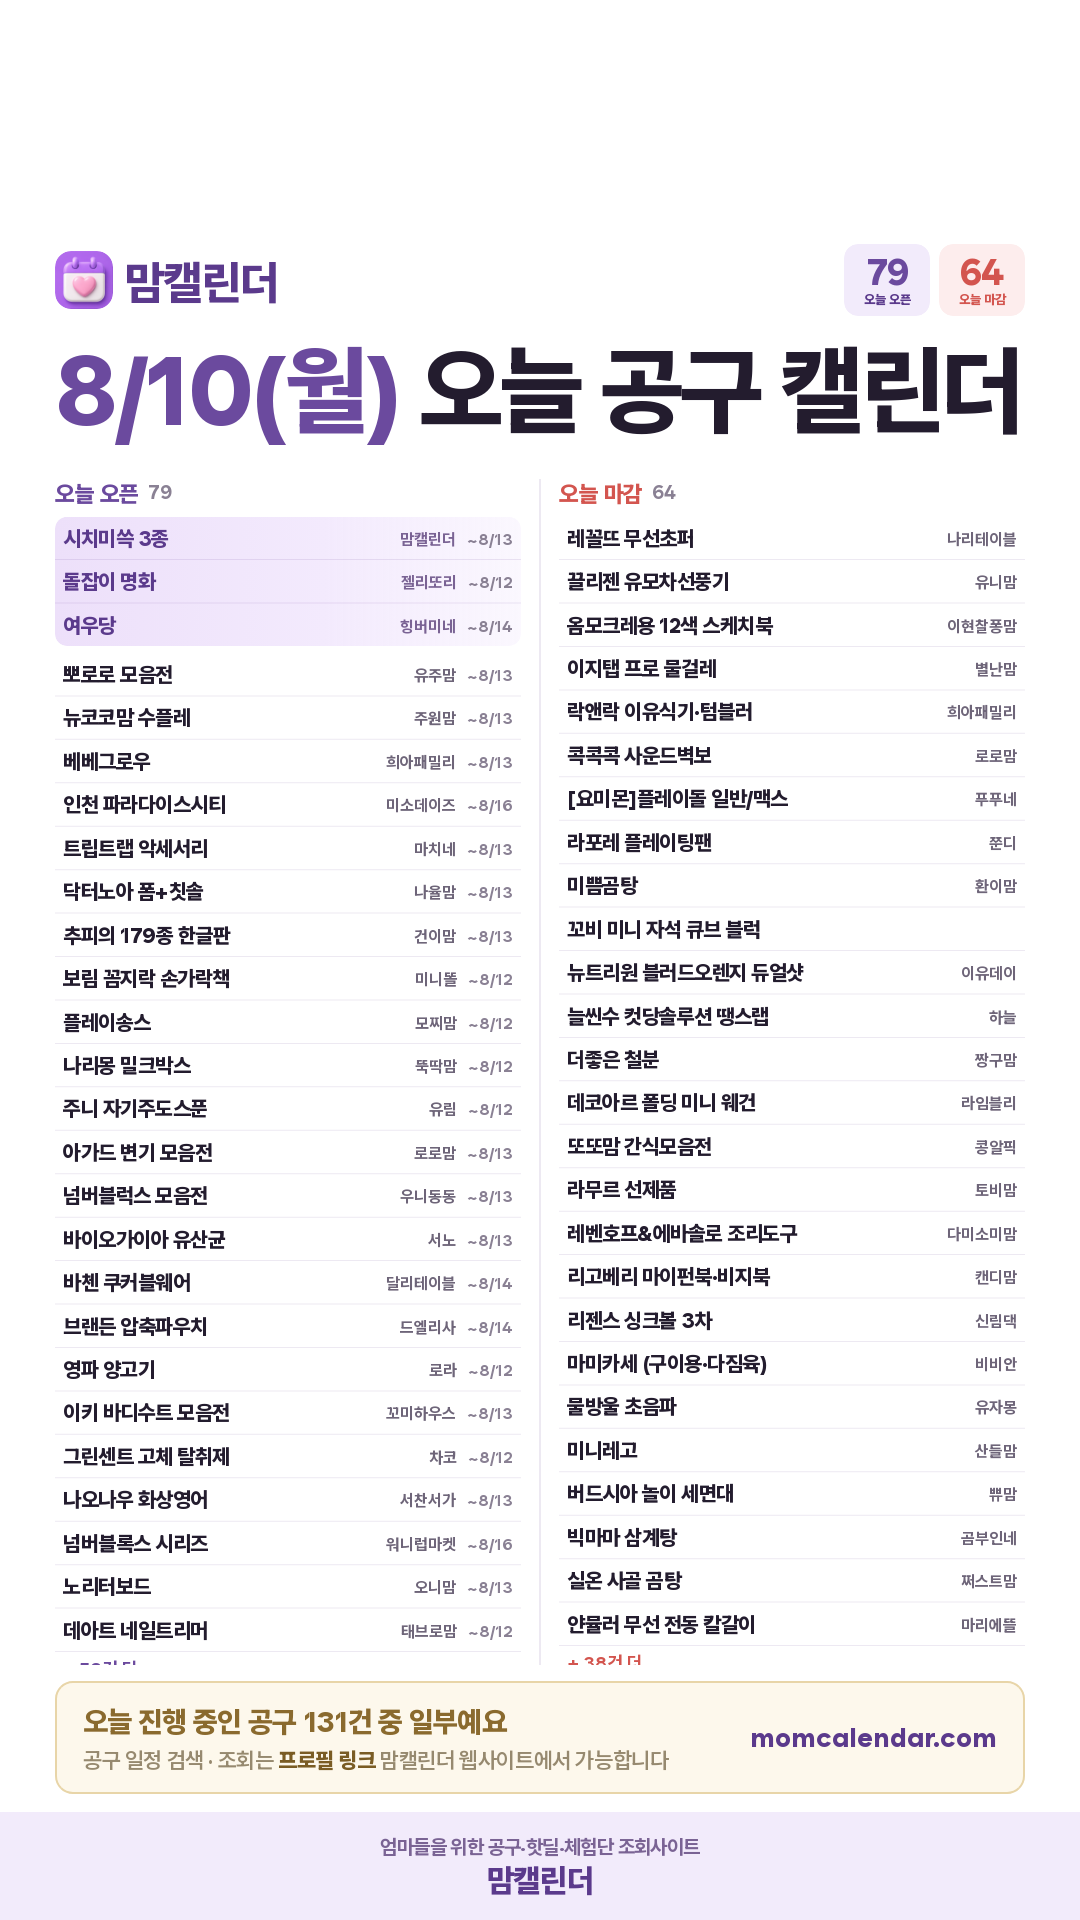
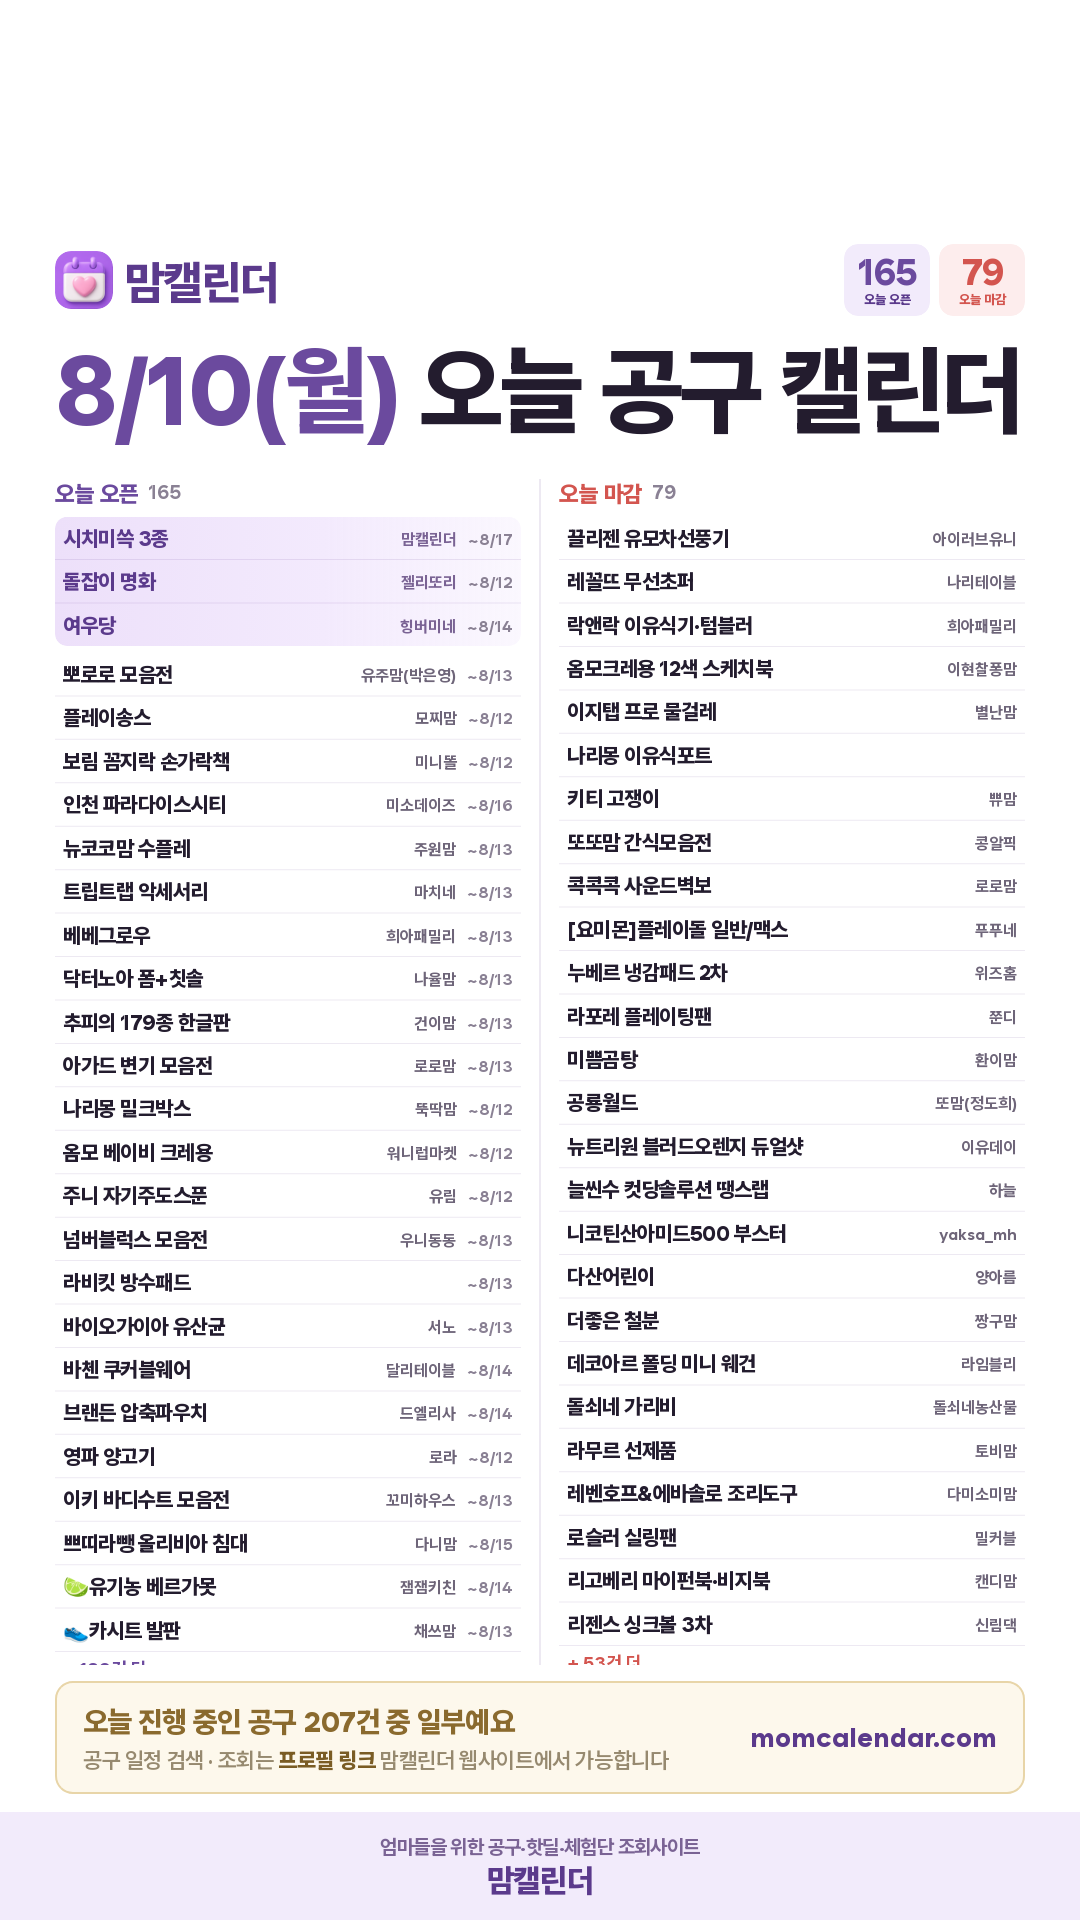
아침 인스타 카드 (2026-08-10)

diff --git a/daily/2026-08-10.html b/daily/2026-08-10.html
@@ -19,15 +19,15 @@ textarea{width:100%;height:260px;border:1px solid #E3DCEF;border-radius:10px;pad
 .todo p{font-size:12.5px;color:#6B6379;line-height:1.75;margin-top:6px}
 .todo a{color:#5B2E8C;font-weight:700}
 </style></head><body>
-<div class="hd"><div class="wrap"><h1>8월 10일(월) 인스타 카드</h1><p>오픈 79건 · 마감 64건</p></div></div>
+<div class="hd"><div class="wrap"><h1>8월 10일(월) 인스타 카드</h1><p>오픈 165건 · 마감 79건</p></div></div>
 <div class="wrap">
-  <div class="todo"><b>사장님 확인 부탁드려요 · 네이버 쇼핑 API 키 발급 (무료·5분)</b><p>핫딜이 진짜 싼지 <b>네이버 최저가와 대조</b>하려면 키가 필요합니다.
-    <a href="https://developers.naver.com/apps/#/register" target="_blank">developers.naver.com</a> →
-    애플리케이션 등록 → 사용 API <b>검색</b> 체크 → 환경 <b>WEB</b>, 서비스 URL <code>https://momcalendar.com</code><br>
-    나온 <b>Client ID / Client Secret</b> 을 Supabase 시크릿에
-    <code>NAVER_CLIENT_ID</code> / <code>NAVER_CLIENT_SECRET</code> 으로 넣어주세요(토스 키 넣으신 곳).<br>
-    넣어주시면 살아있는 핫딜 전부를 돌려 <b>그람수·용량·수량까지 똑같은 것만</b> 골라내
-    매칭률을 실측해 보고드립니다. (색상은 안 따집니다 — 사장님 지시 2026-08-09)</p></div>
+  <div class="todo"><b>사장님 확인 부탁드려요 · 링크프라이스 · 오늘의집 제휴 신청 (각 5분)</b><p>핫딜을 우리 수익링크로 바꿀 수 있는 곳을 늘리는 일입니다.<br>
+    ① <b>링크프라이스</b> 로그인 → 머천트 검색 → <b>오늘의집·SSG</b> 제휴 신청
+    (지마켓·옥션·11번가·보리보리는 이미 열려 있습니다. 오늘의집은 "승인되지 않은 링크"로 막혀 있어요)<br>
+    ② <b>오늘의집 큐레이터</b> → 정산 정보가 아직 <b>미등록</b>이라 리워드가 지급되지 않습니다.
+    <a href="https://ohou.se/curator/activity" target="_blank">ohou.se/curator/activity</a> 하단에서 등록해 주세요.<br>
+    ③ 오늘의집 상품 아무거나 <b>공유 → 링크 복사</b> 한 번만 해서 보내주시면,
+    그 형식을 보고 자동 변환을 붙이겠습니다.</p></div>
   <div class="card"><img src="./2026-08-10.png" alt="오늘 공구 카드"></div>
   <a class="btn" href="./2026-08-10.png" download="momcal_20260810.png">사진 저장</a>
   <div class="card">
@@ -36,90 +36,87 @@ textarea{width:100%;height:260px;border:1px solid #E3DCEF;border-radius:10px;pad
 맘캘린더에서 공유드리는
 8월 10일(월) 오늘 공구 캘린더
 
-오픈 72건 · 마감 35건
+오픈 123건 · 마감 49건
 
 ━━━━━━━━━━━━━━
 
 💜 맘캘린더 이웃셀러
-· 시치미쓱 초미니물티슈 3종 — 맘캘린더 @momcal_ (~8/13)
+· 시치미쓱 초미니물티슈 3종 — 맘캘린더 @momcal_ (~8/17)
 · 돌잡이 명화 — 젤리또리 @jelly_ddori (~8/12)
 · 여우당 — 힝버미네 @heeng_beomi (~8/14)
 
 🔓 오늘 오픈하는 공구
-· 뽀로로 모음전 — 유주맘 (~8/13)
-· 뉴코코맘 수플레 — 주원맘 (~8/13)
-· 베베그로우 — 희아패밀리 (~8/13)
+· 뽀로로 모음전 — 유주맘(박은영) (~8/13)
+· 플레이송스 — 모찌맘 (~8/12)
+· 보림 꼼지락 손가락책 — 미니똘 (~8/12)
 · 인천 파라다이스시티 특가 — 미소데이즈 (~8/16)
+· 뉴코코맘 수플레 — 주원맘 (~8/13)
 · 트립트랩 악세서리 — 마치네 (~8/13)
+· 베베그로우 — 희아패밀리 (~8/13)
 · 닥터노아 폼+칫솔 — 나율맘 (~8/13)
 · 추피의 생활이야기 179종 한글판 — 건이맘 (~8/13)
-· 보림 꼼지락 손가락책 — 미니똘 (~8/12)
-· 플레이송스 — 모찌맘 (~8/12)
-· 나리몽 밀크박스 — 뚝딱맘 (~8/12)
-· 주니 자기주도스푼 — 유림 (~8/12)
 · 아가드 변기 모음전 — 로로맘 (~8/13)
+· 나리몽 밀크박스 — 뚝딱맘 (~8/12)
+· 옴모 베이비 크레용 — 워니럽마켓 (~8/12)
+· 주니 자기주도스푼 — 유림 (~8/12)
 · 넘버블럭스 모음전 — 우니동동 (~8/13)
+· 라비킷 방수패드 —  (~8/13)
 · 바이오가이아 유산균 — 서노 (~8/13)
 · 바첸 쿠커블웨어 — 달리테이블 (~8/14)
 · 브랜든 압축파우치 — 드엘리사 (~8/14)
 · 영파 양고기 — 로라 (~8/12)
 · 이키 바디수트 모음전 — 꼬미하우스 (~8/13)
+· (최초공구) 쁘띠라뺑 올리비아 침대 — 다니맘 (~8/15)
+· 🍋🟩유기농 베르가못 — 잼잼키친 (~8/14)
+· 👟카시트 발판 (니가드/베베루트) — 채쓰맘 (~8/13)
+· 10분컷 셀프염색약 비비러쉬 — 미르홈 (~8/14)
+· 공구런칭 두잉썸 쑥쑥 키재기 자 — 누누네 (~8/14)
 · 그린센트 고체 탈취제 — 차코 (~8/12)
+· 글린 선글라스·물안경 — 라리맘 (~8/13)
+· 김시월 무조미/조미 아기 김 — 선유맘 (~8/14)
+· 나비타 올스타전 — 도하상점 (~8/13)
 · 나오나우 화상영어 — 서찬서가 (~8/13)
-· 넘버블록스 보드북 시리즈 — 워니럽마켓 (~8/16)
 · 노리터보드 — 오니맘 (~8/13)
+· 뉴이 클라우드 부스터 — 밤줌미네 (~8/13)
 · 데아트 네일트리머 — 태브로맘 (~8/12)
-· 데코아르 미니초퍼 — 트민녀 (~8/13)
-· 도노도노 하이체어 점보의자 — 라뷰베어 (~8/12)
-· 두비두 리틀 홈 헬퍼 — 축복맘 (~8/13)
-· 뜨거운 곰탕 — 시크드 (~8/17)
-· 라꽁버터 — 우동맘 (~8/13)
-· 라무르 보습템 — 토비맘 (~8/13)
-· 레벨릭스 워크북 — 다미소미맘 (~8/12)
-· 루솔이유식 — 도담맘 (~8/13)
-· 마인크래프트 큐브블록 — 오꼬베 (~8/14)
-· 맘스보드 — 벨라하우스 (~8/13)
-· 메디인랩 — 하늘 (~8/13)
-· 명희홈쿡 바로육수 — 명희홈쿡 (~8/14)
-· 모오아 과일세척기 — 러브율홈 (~8/14)
-…나머지 33건은 맘캘린더 사이트에서 보실 수 있어요
+…나머지 87건은 맘캘린더 사이트에서 보실 수 있어요
 
 ⏰ 오늘 마감하는 공구
+· 끌리젠 유모차선풍기 — 아이러브유니
 · 레꼴뜨 무선초퍼 — 나리테이블
-· 끌리젠 유모차선풍기 — 유니맘
+· 락앤락 이유식기·텀블러 — 희아패밀리
 · 옴모크레용 6색·12색·스케치북 — 이현찰퐁맘
 · 이지탭 프로 물걸레 — 별난맘
-· 락앤락 이유식기·텀블러 — 희아패밀리
+· 나리몽 이유식포트 — 
+· 키티 고쟁이 — 쀼맘
+· 또또맘 간식모음전 — 콩알픽
 · 콕콕콕 사운드벽보 — 로로맘
 · [요미몬]플레이돌 일반/맥스 — 푸푸네
+· 누베르 냉감패드 2차 — 위즈홈
 · 라포레 플레이팅팬 — 쭌디
 · 미쁨곰탕 — 환이맘
-· 꼬비 미니 자석 큐브 블럭 — 
+· 공룡월드 — 또맘(정도희)
 · 뉴트리원 올리브 블러드오렌지 듀얼샷 — 이유데이
 · 늘씬수·늘씬자피·컷당솔루션·땡스랩 — 하늘
+· 니코틴산아미드500 부스터 — yaksa_mh
+· 다산어린이 — 양아름
 · 더좋은 철분 — 짱구맘
 · 데코아르 멜로우 아웃도어 폴딩 미니 웨건 — 라임블리
-· 또또맘 간식모음전 — 콩알픽
+· 돌쇠네 가리비 — 돌쇠네농산물
 · 라무르 선제품 — 토비맘
 · 레벤호프&amp;에바솔로 조리도구 4차 — 다미소미맘
+· 로슬러 실링팬 — 밀커블
 · 리고베리 마이펀북·비지북 — 캔디맘
 · 리젠스 싱크볼 3차 — 신림댁
 · 마미카세 (구이용·다짐육) — 비비안
+· 무아스 자동 디스펜서 2차 — 마이어홈
 · 물방울 초음파 — 유자몽
 · 미니레고 — 산들맘
-· 버드시아 놀이 세면대 — 쀼맘
+· 바나코 양우산 — 지염
+· 비상문제집 2학기 마지막 앵콜 — 리틀주니
 · 빅마마 삼계탕 — 곰부인네
-· 실온 사골 곰탕 — 쩌스트맘
-· 얀뮬러 무선 전동 칼갈이 — 마리에뜰
-· 여행용 스탠딩파우치 — 채아맘
-· 자동디스펜서 — 마이어홈
-· 잼바라 현미경 — 건후맘
-· 콜라겐부스터 — 약스타그램
-· 퀸즈베리 — 이안마미
-· 토토랑짝짝짝 생활동화 — 워니럽마켓
-· 프리미엄 저염 명란젓 — 지니홈
-· 후딱슈트 — 라뷰베어
-· 힘펠 x 더현대 노바 — 다다살림
+· 뿌리는 초간단 코팅제 — 쥬홈
+…나머지 15건은 맘캘린더 사이트에서 보실 수 있어요
 
 ━━━━━━━━━━━━━━
 
@@ -132,7 +129,7 @@ textarea{width:100%;height:260px;border:1px solid #E3DCEF;border-radius:10px;pad
 ⚠ 공구 일정은 판매자 사정에 따라 변경되거나 조기 마감될 수 있어요. 구매 전에 해당 셀러 계정에서 한 번 더 확인해 주세요.
 
 #맘캘린더 #공구일정 #육아공구 #육아용품 #책육아 #놀잇감 #공구오픈 #공구모음 #오늘의공구 #공구추천 #육아맘 #맘스타그램</textarea>
-    <div class="meta">2184자 / 2200자 · 오픈 36/69 · 마감 35/35</div>
+    <div class="meta">2186자 / 2200자 · 오픈 33/120 · 마감 34/49</div>
     <button class="btn btn2" onclick="cp()">캡션 복사</button>
   </div>
 </div>
